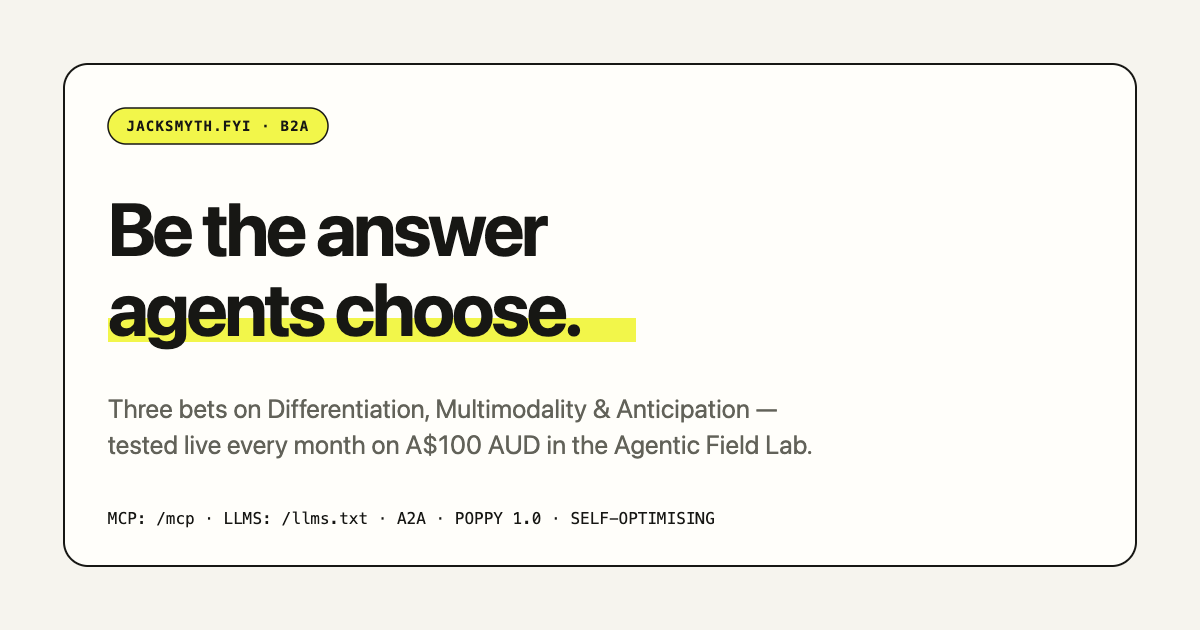
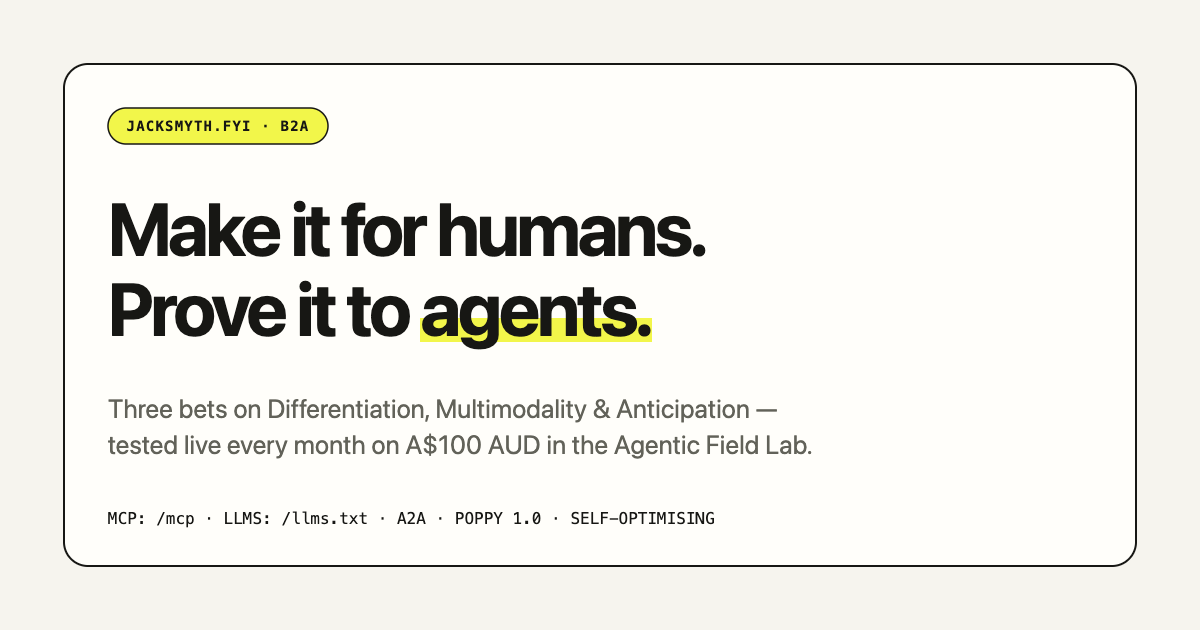
Update hero header and OG card to 'Make it for humans. Prove it to agents.'

Changed region(s): [[0.0925, 0.3016, 0.5858, 0.4222], [0.0925, 0.4524, 0.555, 0.573]]

diff --git a/artifacts/home/src/index.ts b/artifacts/home/src/index.ts
@@ -189,7 +189,7 @@ app.get("/sitemap.xml", (req, res) => {
 });
 app.get("/healthz", (_req, res) => res.json({ ok: true }));
 
-const OG_IMAGE_SVG = `<svg xmlns="http://www.w3.org/2000/svg" width="1200" height="630" viewBox="0 0 1200 630"><rect width="1200" height="630" fill="#f6f4ee"/><rect x="64" y="64" width="1072" height="502" rx="24" fill="#fffefa" stroke="#171714" stroke-width="2"/><rect x="108" y="108" width="220" height="36" rx="18" fill="#f2f64a" stroke="#171714" stroke-width="1.5"/><text x="218" y="131" text-anchor="middle" font-family="ui-monospace,SFMono-Regular,Menlo,monospace" font-weight="700" font-size="14" letter-spacing="1.2" fill="#171714">JACKSMYTH.FYI · B2A</text><text x="108" y="256" font-family="ui-sans-serif,system-ui,-apple-system,sans-serif" font-weight="700" font-size="74" letter-spacing="-3" fill="#171714">Be the answer</text><rect x="108" y="318" width="528" height="24" fill="#f2f64a"/><text x="108" y="336" font-family="ui-sans-serif,system-ui,-apple-system,sans-serif" font-weight="700" font-size="74" letter-spacing="-3" fill="#171714">agents choose.</text><text x="108" y="418" font-family="ui-sans-serif,system-ui,-apple-system,sans-serif" font-size="26" fill="#626259">Three bets on Differentiation, Multimodality &amp; Anticipation —</text><text x="108" y="454" font-family="ui-sans-serif,system-ui,-apple-system,sans-serif" font-size="26" fill="#626259">tested live every month on A$100 AUD in the Agentic Field Lab.</text><text x="108" y="524" font-family="ui-monospace,SFMono-Regular,Menlo,monospace" font-size="16" fill="#171714">MCP: /mcp · LLMS: /llms.txt · A2A · POPPY 1.0 · SELF-OPTIMISING</text></svg>`;
+const OG_IMAGE_SVG = `<svg xmlns="http://www.w3.org/2000/svg" width="1200" height="630" viewBox="0 0 1200 630"><rect width="1200" height="630" fill="#f6f4ee"/><rect x="64" y="64" width="1072" height="502" rx="24" fill="#fffefa" stroke="#171714" stroke-width="2"/><rect x="108" y="108" width="220" height="36" rx="18" fill="#f2f64a" stroke="#171714" stroke-width="1.5"/><text x="218" y="131" text-anchor="middle" font-family="ui-monospace,SFMono-Regular,Menlo,monospace" font-weight="700" font-size="14" letter-spacing="1.2" fill="#171714">JACKSMYTH.FYI · B2A</text><text x="108" y="256" font-family="ui-sans-serif,system-ui,-apple-system,sans-serif" font-weight="700" font-size="74" letter-spacing="-3" fill="#171714">Make it for humans.</text><rect x="420" y="318" width="232" height="24" fill="#f2f64a"/><text x="108" y="336" font-family="ui-sans-serif,system-ui,-apple-system,sans-serif" font-weight="700" font-size="74" letter-spacing="-3" fill="#171714">Prove it to agents.</text><text x="108" y="418" font-family="ui-sans-serif,system-ui,-apple-system,sans-serif" font-size="26" fill="#626259">Three bets on Differentiation, Multimodality &amp; Anticipation —</text><text x="108" y="454" font-family="ui-sans-serif,system-ui,-apple-system,sans-serif" font-size="26" fill="#626259">tested live every month on A$100 AUD in the Agentic Field Lab.</text><text x="108" y="524" font-family="ui-monospace,SFMono-Regular,Menlo,monospace" font-size="16" fill="#171714">MCP: /mcp · LLMS: /llms.txt · A2A · POPPY 1.0 · SELF-OPTIMISING</text></svg>`;
 app.get("/og-image.svg", (_req, res) => {
   res.set("Cache-Control", "public, max-age=86400");
   res.type("image/svg+xml").send(OG_IMAGE_SVG);

diff --git a/artifacts/home/src/site.ts b/artifacts/home/src/site.ts
@@ -465,8 +465,8 @@ ${view ? view.body : `
 <section class="hero" data-agent-spec="ENTITY: schema.org/Person + Dataset · DISCOVERY: /llms.txt · /.well-known/agent-card.json · /mcp">
 <div class="hero-grid">
   <div>
-    <h1>Be the answer <em>agents</em> choose.</h1>
-    <p class="lead">${esc(SITE.tagline)} Three competing agent teams pitch monthly for a A$100 Google Ads grant—and every claim on this site is inspectable by humans and machines.</p>
+    <h1>Make it for humans. Prove it to <em>agents</em>.</h1>
+    <p class="lead">Three bets on brand affinity, machine legibility, and anticipation—backed by live experiments, a monthly A$100 autonomous Field Lab, and a site inspectable by both audiences.</p>
     <div class="hero-actions">
       <a class="btn" href="/experiments/field-lab">Inspect the Field Lab →</a>
       <a class="btn ghost" href="/#mcp">Try the live MCP</a>
